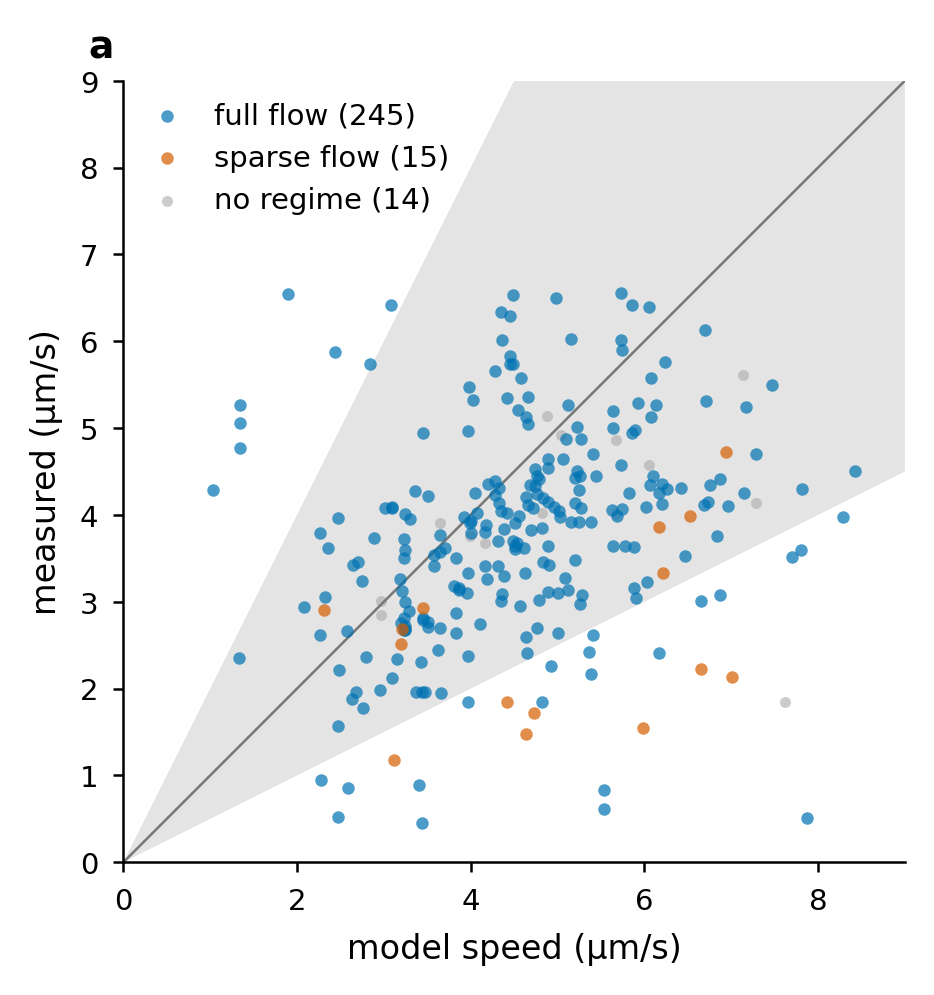
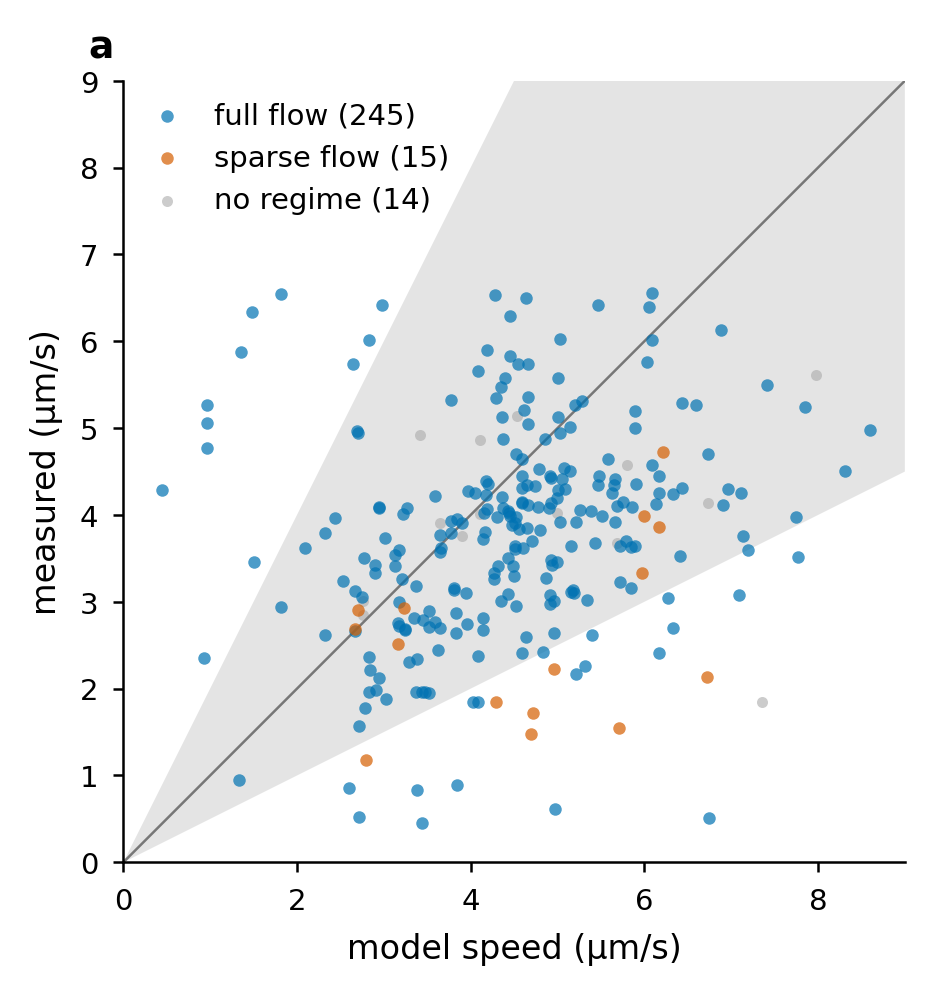
Main model on the recalibrated Keras widths: Methods sentence, Fig 5 / Fig 6 / SI regime figure redrawn, notes with the new numbers

diff --git a/02_Article_Supplementary.tex b/02_Article_Supplementary.tex
@@ -339,6 +339,7 @@ A constant motor speed scores worse in the transport model (Methods).
 \label{fig:flow_regimes}
 \end{figure}
 % NOTE (15 Oct): figure = Fig 5c with each trail segment coloured by the flow regime of its edge (model_accuracy_two_models.py --layout regimes): full flow 245, sparse 15, no regime 14 segments; grey wedge within 2x, line identity.
+% NOTE (15 Oct, Keras widths; supersedes the model numbers in notes 2 and above): figure redrawn on the main model with recalibrated Keras widths (transport_paper junction/global_gimf_gimf_minedge20_keras_ratio_fb, feat/flow-regime). All edges: full flow 1,273 edges, within 2x 78.9 %, bias 1.01, measured median 3.86 um/s, model 3.48; sparse 179 edges, 65.9 %, bias 1.60, measured 1.85, model 3.10; unclassified 92, 80.4 %. Trail segments: full 88 % within 2x, bias 1.20; sparse 53 %, bias 1.79.
 
 \namedsubsection{Lumen width and network width}{subsec:si_widths}
 % NOTE (15 Oct): section text to be written by Simon; new section on Simon's request (lumen width against the network (STG) width, and the methods to extract them).
@@ -364,6 +365,7 @@ The dark band of a hypha in the network images is 15--20~$\mu$m wide against lum
 % NOTE (15 Oct, final model on the legacy Keras widths; transport_paper feat/flow-regime, theta_sweep_gimf.py --widths, fig_outputs/flow_regime/width_source_compare.csv; 1,544 edges): legacy width x 0.75 (median lumen / legacy; its spread matches the lumen's, log-SD 0.257 vs 0.254, segmenter 0.211) on every store edge that has one, the ~8 % without one on 0.83 x their segmenter width: within 2x 77.5 % (segmenter 78.0 %), KS 0.056 (0.050), trail segments 86.1 % within 2x, bias 1.21 (86.9 %, 1.21). Model / measured by lumen-width tercile thin / mid / wide: 1.15 / 1.03 / 0.99 (segmenter 1.20 / 1.05 / 0.96). Within 1 mm of a tip 3.11 um/s (segmenter 2.84, measured 2.17); beyond 8 mm 3.50 (3.50, measured 4.22). Legacy at the segmenter's level (x 0.92): 78.1 %, KS 0.052. With the video lumen on the 1,969 filmed edges, or the OLS calibration (lumen = 4.39 + 0.376 legacy): 76.9 % / 79.0 %, KS 0.056 / 0.068. So the Keras widths flatten the width bias slightly but leave the scores and the far-from-tip under-prediction unchanged; the shortfall beyond 8 mm is not from the compressed width contrast of the segmenter.
 % NOTE (15 Oct, to the note above): the '+ lumen' and OLS runs kept the ~8 % of edges without a legacy width at 1.0 x their segmenter width (no 0.83 rescale), as did a first legacy x 0.75 run (76.6 %, floor binding on 35 % of edges against 24 % with the rescale); compare them with care.
 % NOTE (15 Oct, shift only): legacy - 2.8 um (median legacy - lumen, 1,969 edges; floor 2 um on 4 % of store edges; fallback 0.83 x segmenter): within 2x 76.2 %, KS 0.051, trail segments 88.0 % within 2x, bias 1.19 (best of the width runs on the trails); model / measured by lumen tercile 1.13 / 1.00 / 1.01 (flattest); within 1 mm of a tip 3.12 um/s, beyond 8 mm 3.44 (measured 2.17 / 4.22). The shift widens the relative width spread (log-SD 0.36 against the lumen's 0.25).
+% NOTE (15 Oct, Simon): the main model now uses the scaled Keras width (legacy x 0.75, fallback 0.83 x segmenter), described as a Keras width model recalibrated on the measured hyphae (Methods, transport model).
 \begin{figure}[hbt!]
 \centering
 \includegraphics[width=\textwidth,keepaspectratio]{suppfig/figS_width_lumen_speed.png}

diff --git a/01_Article_MainText.tex b/01_Article_MainText.tex
@@ -374,6 +374,7 @@ Vertical error bars: 25th–75th percentile of the measured velocity pixels of t
 % NOTE (15 Oct, Fig 5 restructure, Simon): figures/fig_plug_model.png redrawn with four panels (model_accuracy_two_models.py --layout fig5, transport_paper feat/flow-regime, tables junction/global_gimf_gimf_minedge20): (a) distribution over every measured edge, counts on a log axis, 1,544 edges in 15 sessions; (b) NEW, to-tip speed against distance to the nearest growing tip, 1,481 bright-field edges, hierarchical Bayesian fit of v(d) = v_inf - (v_inf - v_tip) e^(-d/ell): v_tip 2.18 [1.92, 2.39] um/s, v_inf 2.93 [2.86, 3.03] um/s, ell 1.85 [1.11, 3.52] mm (posterior median, 95 %); (c) old panel c, 274 trail segments within 10 mm of the tip, 87 % within 2x, bias 1.21; (d) old panel d, bins hold 3, 14, 19, 65, 73, 100, 130, 88 segments. Dropped: old panel b (percentiles, same idea as a). Old e and f moved to Fig 6 (below). Caption above still describes the old six panels; the main-text references to Fig 5 e and F now point to Fig 6.
 % NOTE (15 Oct, later, Fig 5b): falloff to zero added as a second curve (vermillion), same hierarchical Bayesian fit with v_tip fixed at 0, v(d) = v_inf (1 - e^(-d/ell)): v_inf 2.79 [2.75, 2.83] um/s, ell 194 [145, 241] um (offset fit: v_tip 2.18, v_inf 2.93, ell 1.85 mm). The zero curve is at 2.0 um/s by 250 um and flat at 2.8 um/s beyond ~1 mm; it misses the gradual rise over 1-3 mm and sits ~10 % below the edges beyond 4 mm. WAIC (expected log predictive density, 1,481 edges): offset higher by 25.5 +- 7.3, of which 10.6 from the 82 edges within 1 mm of a tip and 12.7 from those beyond 3 mm. Only 7 edges lie within 250 um of a tip, so the data cannot see a drop on the ~20 um scale of the hand-traced tip kymographs (SI, Movement at the growing tips). Source: transport_paper feat/flow-regime, forward_speed_bayes.py --zero.
 % NOTE (15 Oct, Simon): the falloff-to-zero curve moves to the SI (section Choices in the to-tip speed model, fig:tip_falloff_zero); Fig 5b shows the offset fit only again.
+% NOTE (15 Oct, Keras widths; supersedes the numbers of the Fig 5 notes above where they differ): main model now on the recalibrated Keras widths (0.75 x legacy Keras width, fallback 0.83 x segmenter; Methods, transport model). figures/fig_plug_model.png and fig6_model_examples.png redrawn (transport_paper junction/global_gimf_gimf_minedge20_keras_ratio_fb, feat/flow-regime). (a) 1,544 edges in 15 sessions; all edges within 2x 77.5 % (segmenter widths 78.0 %), KS 0.056, median fold error 1.45; (b) unchanged; (c) 274 trail segments, 86 % within 2x, bias 1.21; (d) bin counts unchanged (3, 14, 19, 65, 73, 100, 130, 88). Fig 6b: 30 segments, 90 % within 2x, median |log2 error| 0.31. Model / measured by lumen-width tercile 1.15 / 1.03 / 0.99 (segmenter 1.20 / 1.05 / 0.96); within 1 mm of a tip 3.11 um/s (segmenter 2.84, measured 2.17); beyond 8 mm 3.50 (measured 4.22). The theta sweep and the model-variant comparisons were run on the segmenter widths.
 
 \begin{figure}
     \centering

diff --git a/05_Article_Methods.tex b/05_Article_Methods.tex
@@ -296,6 +296,9 @@ Cuts round a patch of network isolated it from both its source and its sinks; 4 
 
 The model predicts the to-root speed on every edge of a session's graph from the network, its growth and the measured motor speed (\texttt{transport\_paper/compute\_funcs/backflow\_model.py}; step by step in SI \todo{SI model-steps figure, no LaTeX label yet}).
 Below, $D$ is the hyphal diameter of an edge, $L$ its length and $d$ its distance to the nearest growing tip.
+The diameter $D$ comes from an earlier width model (a Keras network on cross-sections of the network image), recalibrated on the hyphae measured in the flow videos: its width is multiplied by 0.75, the median ratio of the lumen diameter in the videos to this width over 1,969 filmed edges (SI, \nameref{subsec:si_widths}).
+The 8\% of edges without such a width take 0.83 times the segmenter's diameter, the same ratio for the segmenter.
+% NOTE (15 Oct, Simon): main-model widths switched from the segmenter to the recalibrated Keras width (Simon: say it is from a Keras model, recalibrated on measured hyphae). The two sentences above drafted by Claude on that request. Keras width = /edge_width_timesteps width_um (model_quadratic.h5); its spread across edges matches the lumen's (log-SD 0.257 vs 0.254; segmenter 0.211). Run: transport_paper junction/global_gimf_gimf_minedge20_keras_ratio_fb, feat/flow-regime.
 \begin{enumerate}
   \item \textbf{Demand.}
 The hypha added over the next four frames is split into connected pieces.
